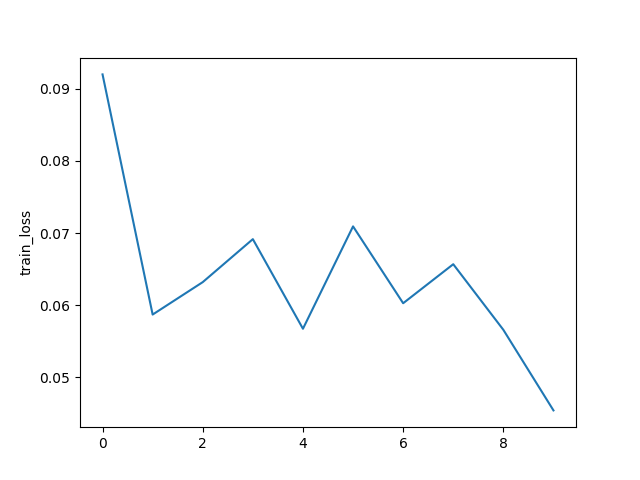
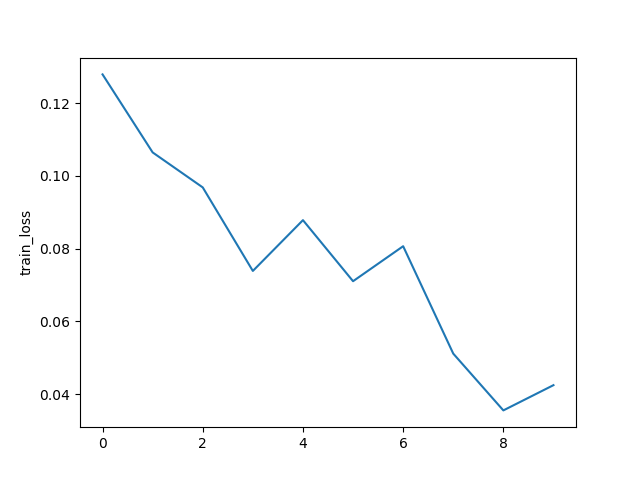
改1

diff --git a/main_DMPFL.py b/main_DMPFL.py
@@ -71,7 +71,7 @@ if __name__ == '__main__':
     sparsity_ratio=0.5
     readjust_masks = True
     a_s=0.01
-    mask_readjust_interval=10
+    mask_readjust_interval=1
 
     #初始化，把 w_glob中的参数的绝对值中的前sparsity_ratio%的参数置为1，其余的置为0
     m_g = copy.deepcopy(w_g)
@@ -132,18 +132,17 @@ if __name__ == '__main__':
             #             wc_next[i] = wg[i]
             #     w_c[idx][k] = wc_next.reshape(wc_shape)
 
-
             #net_glob[idx]设置为w_c[idx]*m_c[idx]
             net_client.load_state_dict(w_c[idx])
-            g_c, loss = local.train(net=copy.deepcopy(net_client).to(args.device))
+            w_c[idx], loss = local.train(net=copy.deepcopy(net_client).to(args.device))
             if args.all_clients:
                 # w_c[idx] = copy.deepcopy(g_c)
                 #报错，不知道怎么写：
                 exit('Error:todo')
-            else:
+            # else:
                 #w_c[idx]=w_c[idx]+g_c*m_c[idx]
-                for k in w_c[idx].keys():
-                    w_c[idx][k] = w_c[idx][k] + g_c[k] * m_c[idx][k]
+                # for k in w_c[idx].keys():
+                #     w_c[idx][k] = w_c[idx][k] + g_c[k] * m_c[idx][k]
             loss_locals.append(copy.deepcopy(loss))
 
             #判断是否readjust_masks=true:
@@ -206,7 +205,13 @@ if __name__ == '__main__':
     plt.ylabel('train_loss')
     plt.savefig('./save/fed_{}_{}_{}_C{}_iid{}.png'.format(args.dataset, args.model, args.epochs, args.frac, args.iid))
 
-    # testing
+    # testing 每个客户都测试一下，acc_train与acc_test都是所有客户的平均值
+
+
+
+
+
+    net_glob.load_state_dict(w_g)
     net_glob.eval()
     acc_train, loss_train = test_img(net_glob, dataset_train, args)
     acc_test, loss_test = test_img(net_glob, dataset_test, args)

diff --git a/models/Update.py b/models/Update.py
@@ -33,6 +33,36 @@ class LocalUpdate(object):
     def train(self, net):
         net.train()
         # train and update
+
+        #手写一个梯度下降算法
+        for iter in range(self.args.local_ep):
+            batch_loss = []
+            for batch_idx, (images, labels) in enumerate(self.ldr_train):
+                images, labels = images.to(self.args.device), labels.to(self.args.device)
+                net.zero_grad()
+                log_probs = net(images)
+                loss = self.loss_func(log_probs, labels)
+                loss.backward()
+                #求梯度
+                
+
+
+                optimizer.step()
+                if self.args.verbose and batch_idx % 10 == 0:
+                    print('Update Epoch: {} [{}/{} ({:.0f}%)]\tLoss: {:.6f}'.format(
+                        iter, batch_idx * len(images), len(self.ldr_train.dataset),
+                               100. * batch_idx / len(self.ldr_train), loss.item()))
+                batch_loss.append(loss.item())
+            epoch_loss.append(sum(batch_loss)/len(batch_loss))
+        return net.state_dict(), sum(epoch_loss) / len(epoch_loss)
+        #1.初始化参数
+        #2.计算梯度
+        #3.更新参数
+        #4.重复2，3步骤
+        #5.返回参数
+
+
+
         optimizer = torch.optim.SGD(net.parameters(), lr=self.args.lr, momentum=self.args.momentum)
 
         epoch_loss = []

diff --git a/utils/options.py b/utils/options.py
@@ -7,7 +7,7 @@ import argparse
 def args_parser():
     parser = argparse.ArgumentParser()
     # federated arguments
-    parser.add_argument('--epochs', type=int, default=10, help="rounds of training")
+    parser.add_argument('--epochs', type=int, default=20, help="rounds of training")
     parser.add_argument('--num_users', type=int, default=100, help="number of users: K")
     parser.add_argument('--frac', type=float, default=0.1, help="the fraction of clients: C")
     parser.add_argument('--local_ep', type=int, default=5, help="the number of local epochs: E")
